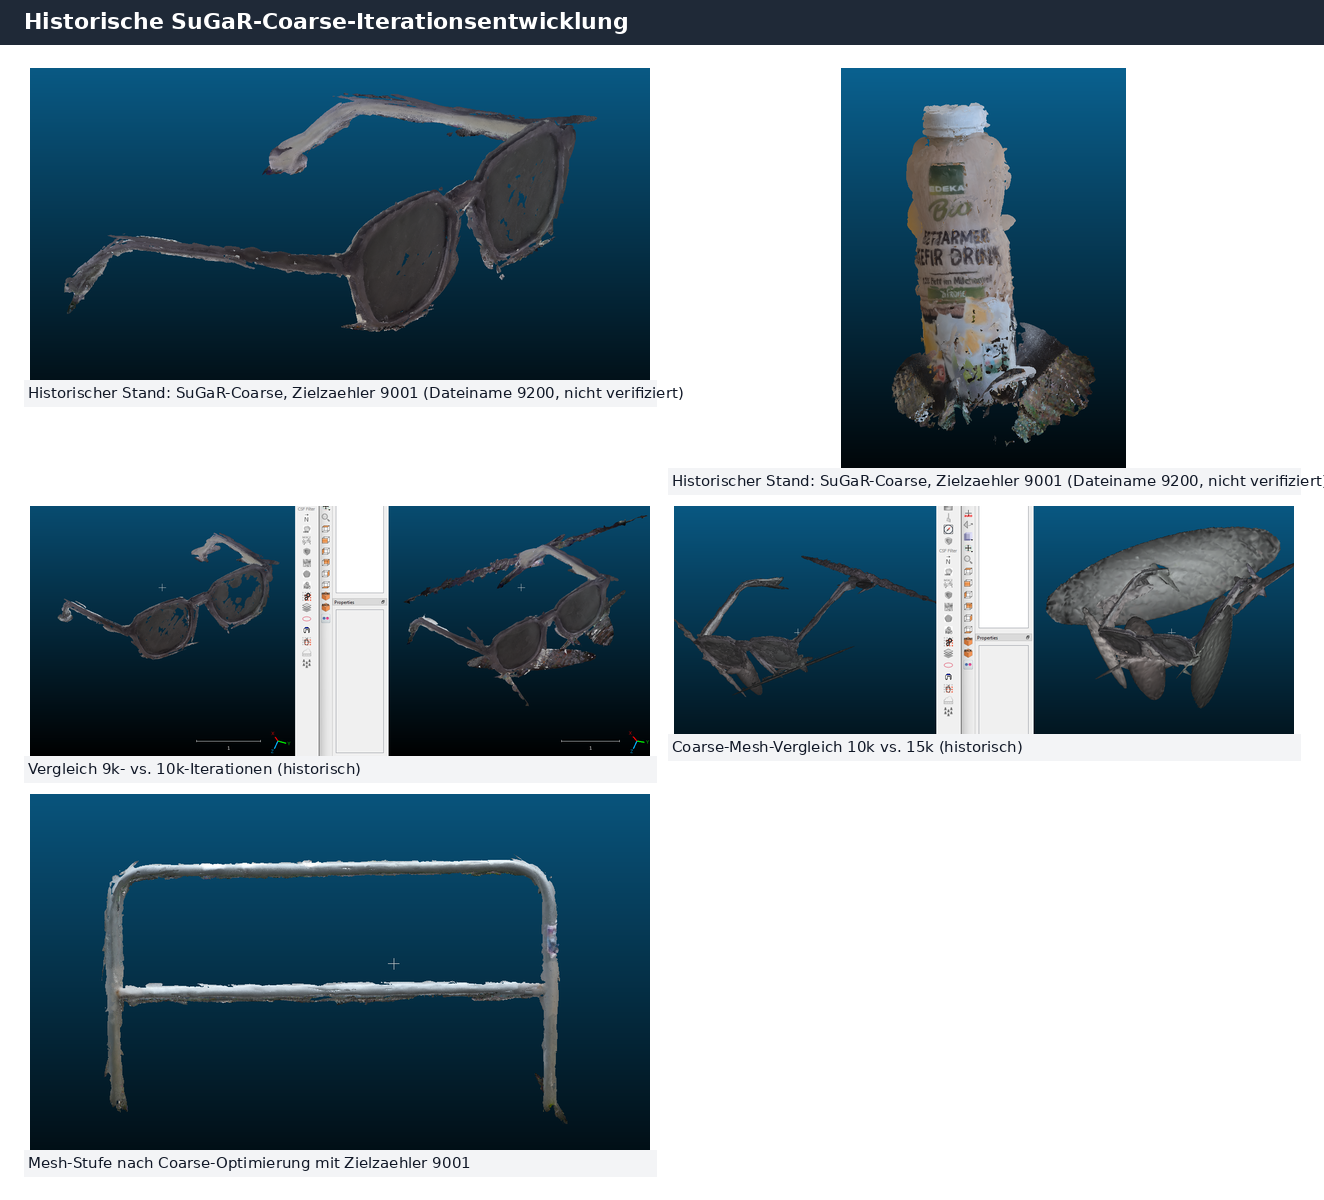
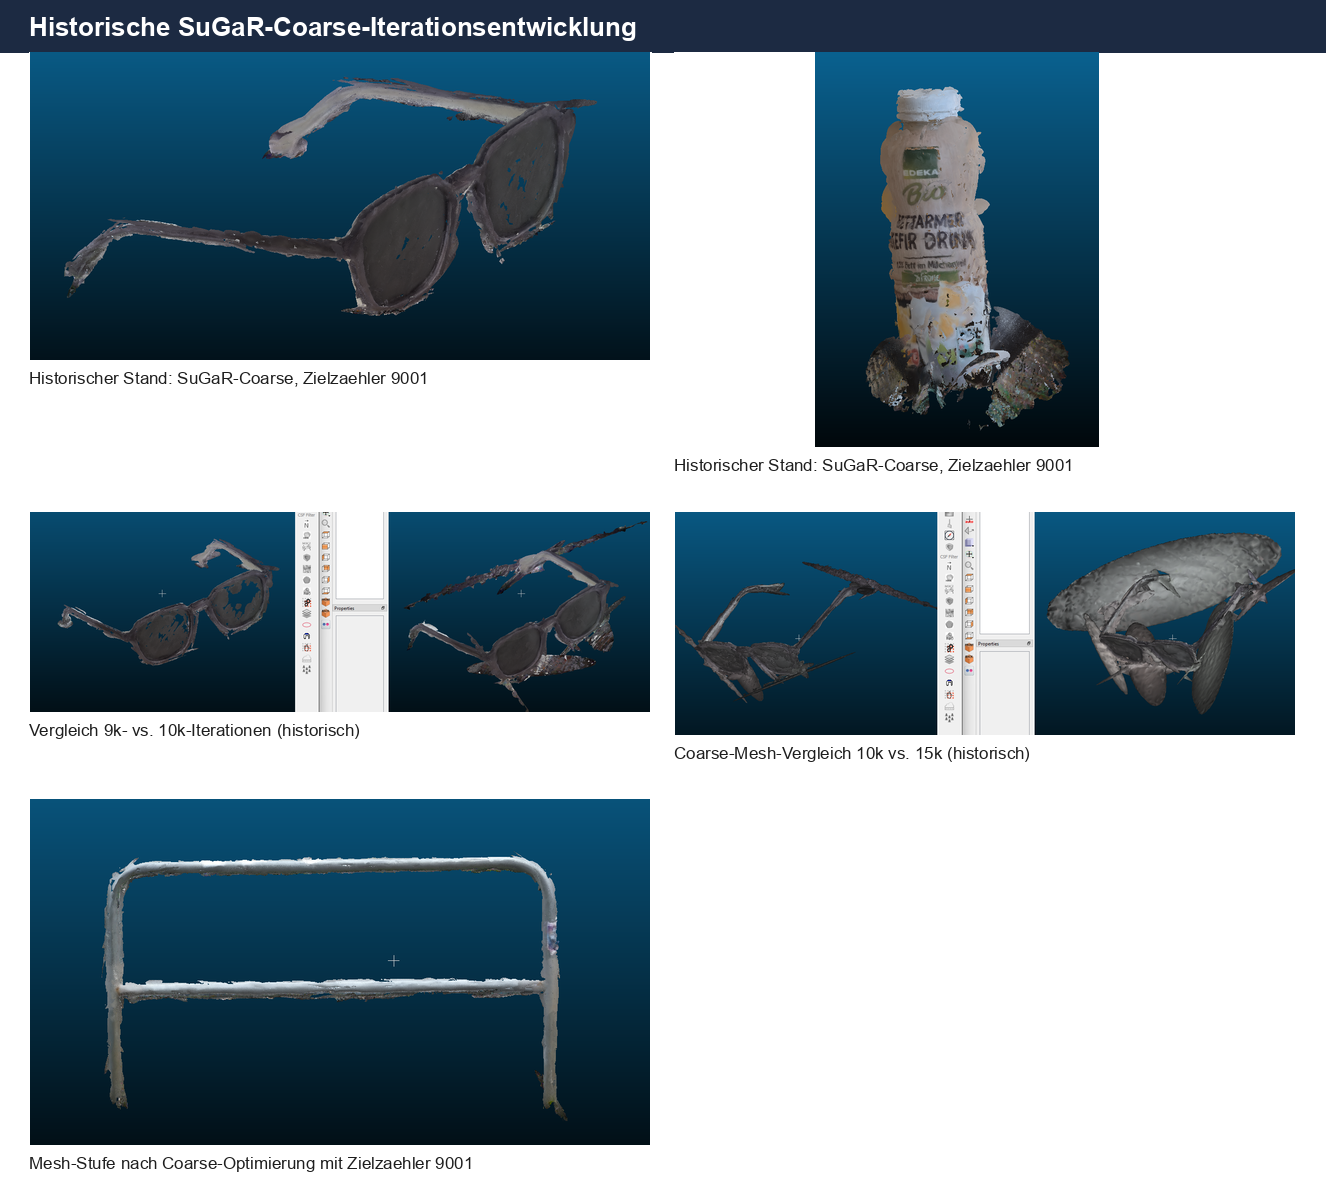
K6: pa_panel_sugar_iteration neu gebaut (Zielzaehler 9001 konsistent, ohne Dateinamen-Disclaim)

diff --git a/PA/Fertigstellung/rebuild_panel.py b/PA/Fertigstellung/rebuild_panel.py
@@ -1,0 +1,73 @@
+"""Baut pa_panel_sugar_iteration.png neu: Kacheln aus dem alten Panel,
+aber mit sauberen Labels (ohne Dateinamen-Hinweis). Kein Pipeline-Code."""
+from PIL import Image, ImageDraw, ImageFont
+import os
+
+SRC = r"PA/figures/pa_panel_sugar_iteration.png"
+OUT = r"PA/Fertigstellung/figures/pa_panel_sugar_iteration.png"
+
+im = Image.open(SRC).convert("RGB")
+
+# Kachel-Crops (x0,y0,x1,y1) - Unterkante vor der alten Beschriftung
+tiles = {
+    "brille":   im.crop((29, 68, 652, 376)),
+    "flasche":  im.crop((700, 68, 1125, 463)),
+    "vergl9k":  im.crop((29, 505, 652, 706)),
+    "vergl15k": im.crop((673, 505, 1300, 729)),
+    "alurohr":  im.crop((29, 802, 652, 1148)),
+}
+
+labels = {
+    "brille":   "Historischer Stand: SuGaR-Coarse, Zielzaehler 9001",
+    "flasche":  "Historischer Stand: SuGaR-Coarse, Zielzaehler 9001",
+    "vergl9k":  "Vergleich 9k- vs. 10k-Iterationen (historisch)",
+    "vergl15k": "Coarse-Mesh-Vergleich 10k vs. 15k (historisch)",
+    "alurohr":  "Mesh-Stufe nach Coarse-Optimierung mit Zielzaehler 9001",
+}
+
+HEADER = "Historische SuGaR-Coarse-Iterationsentwicklung"
+CAP_H = 30          # Platz fuer Bildunterschrift
+GAP_X = 22
+GAP_Y = 34
+MARGIN = 29
+
+try:
+    font_b = ImageFont.truetype("arialbd.ttf", 26)
+except Exception:
+    font_b = ImageFont.load_default()
+try:
+    font_c = ImageFont.truetype("arial.ttf", 17)
+except Exception:
+    font_c = ImageFont.load_default()
+
+header_h = 52
+col_w = max(tiles[k].width for k in ("brille", "vergl9k", "alurohr"))
+row1_h = max(tiles["brille"].height, tiles["flasche"].height) + CAP_H
+row2_h = max(tiles["vergl9k"].height, tiles["vergl15k"].height) + CAP_H
+row3_h = tiles["alurohr"].height + CAP_H
+
+W = MARGIN * 2 + col_w * 2 + GAP_X
+H = header_h + row1_h + GAP_Y + row2_h + GAP_Y + row3_h + MARGIN
+
+canvas = Image.new("RGB", (W, H), "white")
+draw = ImageDraw.Draw(canvas)
+draw.rectangle([0, 0, W, header_h], fill=(28, 42, 66))
+draw.text((MARGIN, 12), HEADER, fill="white", font=font_b)
+
+def paste_tile(key, x, y):
+    t = tiles[key]
+    canvas.paste(t, (x, y))
+    draw.text((x, y + t.height + 8), labels[key], fill=(30, 30, 30), font=font_c)
+
+y = header_h
+paste_tile("brille", MARGIN, y)
+paste_tile("flasche", MARGIN + col_w + GAP_X, y)
+y += row1_h + GAP_Y
+paste_tile("vergl9k", MARGIN, y)
+paste_tile("vergl15k", MARGIN + col_w + GAP_X, y)
+y += row2_h + GAP_Y
+paste_tile("alurohr", MARGIN, y)
+
+os.makedirs(os.path.dirname(OUT), exist_ok=True)
+canvas.save(OUT)
+print("geschrieben:", OUT, canvas.size)
